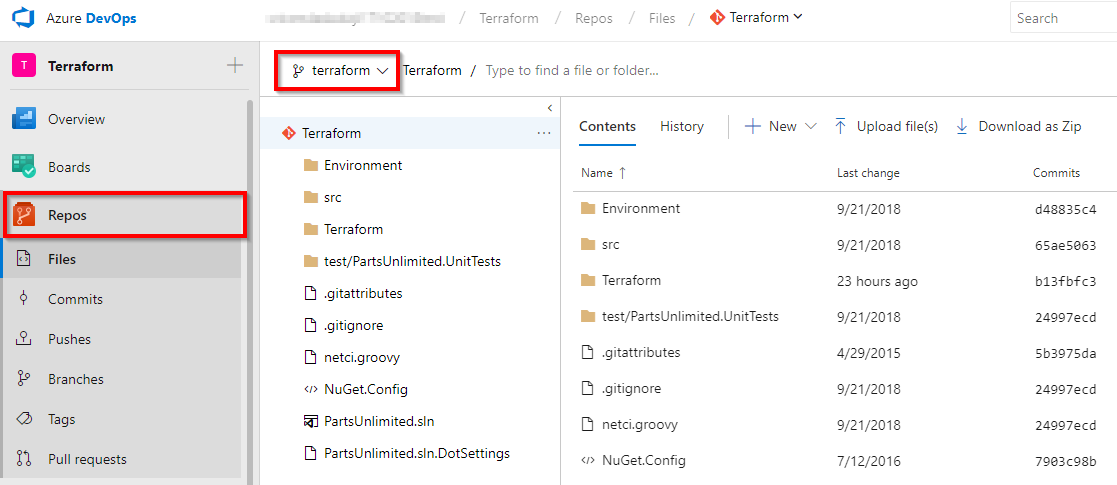
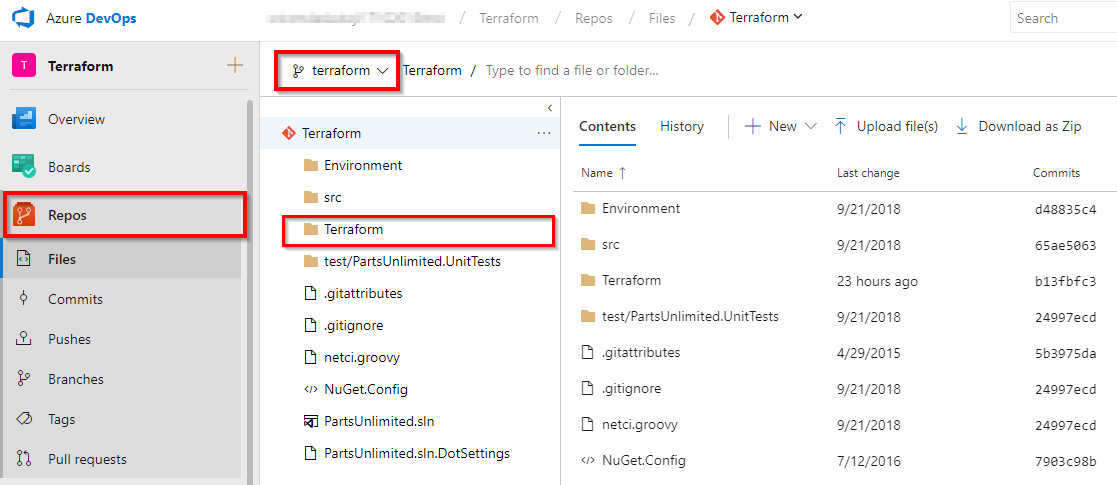
updated lab content

Changed region(s): [[0.2435, 0.433, 0.5175, 0.5258]]

diff --git a/labs/vstsextend/ansible/readme.md b/labs/vstsextend/ansible/readme.md
@@ -27,7 +27,7 @@ In this lab, you will see
 1. Refer the [Getting Started](https://github.com/Hoyg/azuredevopslabs/blob/master/labs/vstsextend/Setup) page before you begin following the exercises.
 
 1. Use the [Azure DevOps Demo Generator](https://azuredevopsdemogenerator.azurewebsites.net/?Name=Ansible) to provision the project on your Azure DevOps organization.
-   This URL will automatically select **Terraform** template in the demo generator. If you want to try other projects, use this URL instead -https://azuredevopsdemogenerator.azurewebsites.net/
+   This URL will automatically select **Ansible** template in the demo generator. If you want to try other projects, use this URL instead -https://azuredevopsdemogenerator.azurewebsites.net/
 
    Follow the [simple walkthrough](https://docs.microsoft.com/en-us/azure/devops/demo-gen/use-vsts-demo-generator-v2?view=vsts) to know how to use the Azure DevOps Demo Generator.
 

diff --git a/labs/vstsextend/terraform/readme.md b/labs/vstsextend/terraform/readme.md
@@ -34,7 +34,11 @@ In this lab, you will use PartsUnlimited which is an example eCommerce website d
 
 1. Navigate to the project you created above using [Azure DevOps Demo Generator](https://azuredevopsdemogenerator.azurewebsites.net/?TemplateId=77382&Name=Terraform)
 
-1. Select **Repos**. Make sure that you are on **terraform** branch. If not switch to **terraform** branch.
+1. Select **Repos**. Switch to **terraform** branch.
+
+    ![](images/select-terraform-branch.png)
+
+    Make sure that you are now on the **terraform** branch and **Terraform** folder is there in the repo.
 
     ![](images/terraformrepo.png)
 
